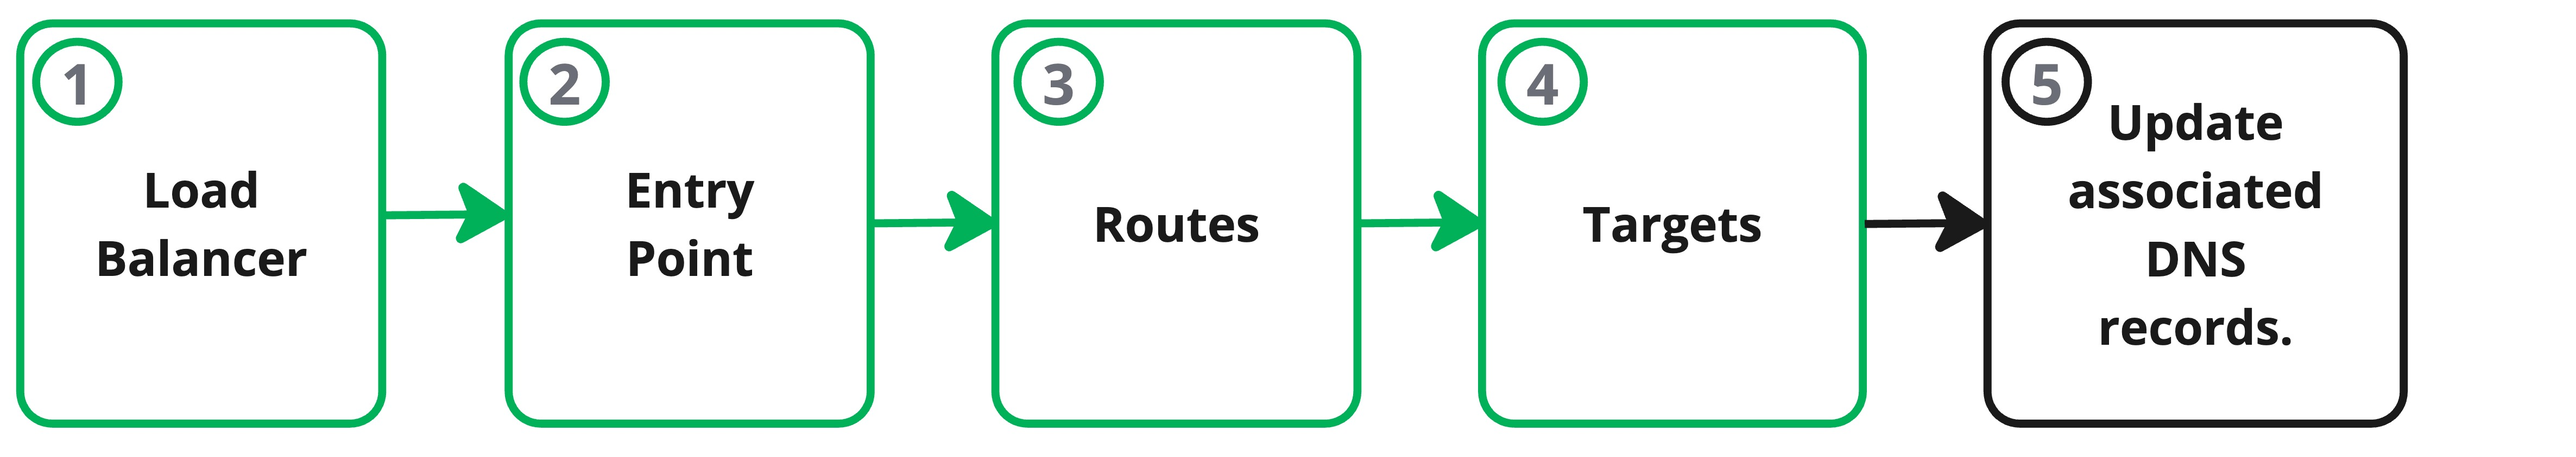
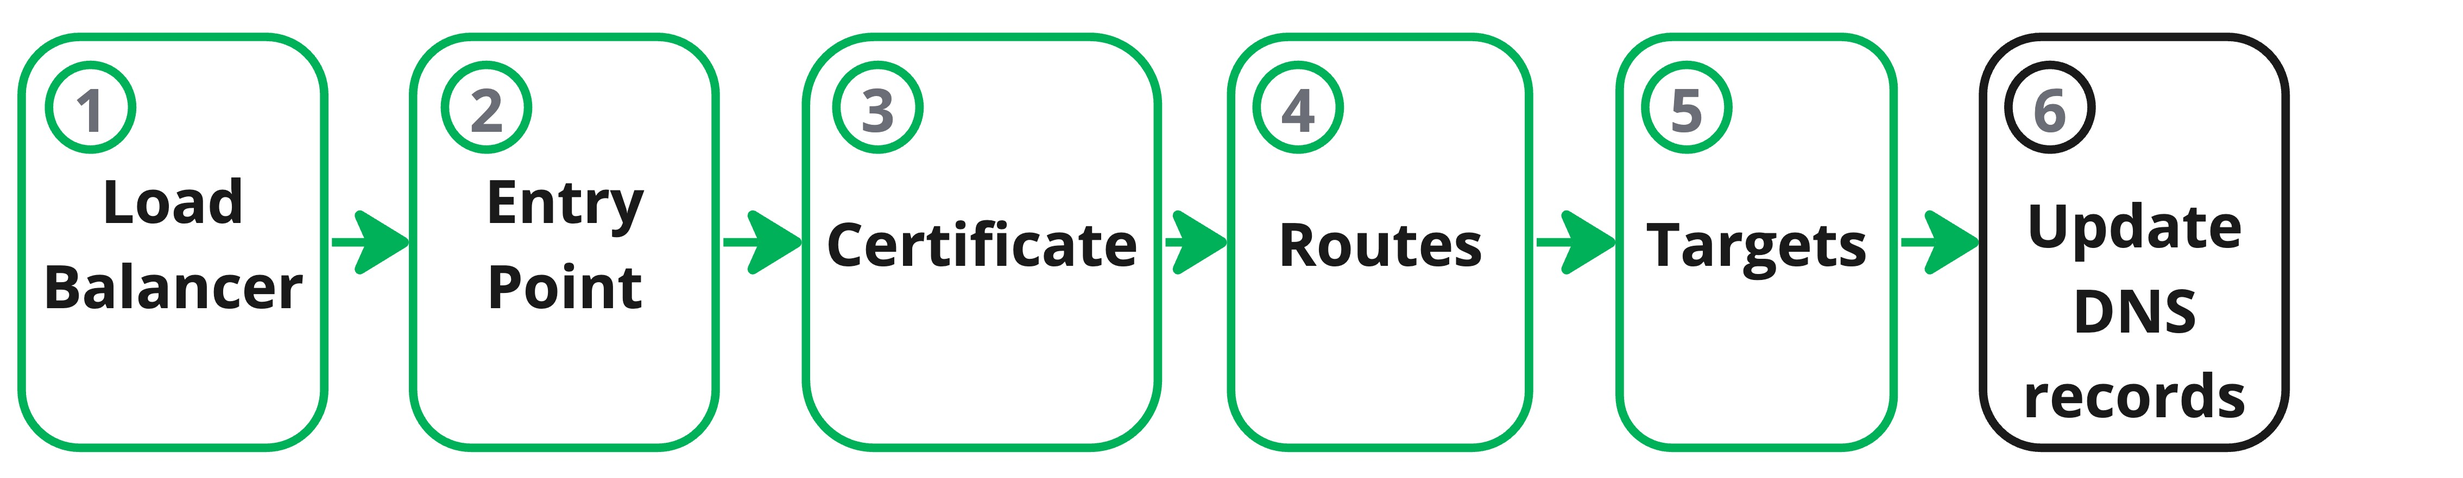
Draft drop - July 10

Changed region(s): [[0.0, 0.0308, 0.9325, 0.9561]]

diff --git a/docs/products/networking/global-loadbalancer/get-started/index.md b/docs/products/networking/global-loadbalancer/get-started/index.md
@@ -33,31 +33,35 @@ Once your application has been deployed on multiple Compute Instances, you are r
 
 1. **Load Balancer:** Label the load balancer and select regions.
 
-1. **Entry Point:** Select the entry point protocol and port the load balancer uses to listen on.
+1. **Entry Point:** Select the entry point protocol (TCP or HTTP) and port the load balancer uses to listen on.
+
+1. **Certificates:** Upload your certificate and private key.
 
 1. **Routes:** Create routes and route rules used to select the service target.
 
-1. **Targets:** Configure the service endpoint (target) and its policy type, certificates and health checks.
+1. **Targets:** Configure the service endpoints (targets) and their policy type and health checks.
 
 {{< tabs >}}
 {{< tab "Cloud Manager" >}}
 ### Label the Load Balancer and Select Regions
 1. Log in to the [Cloud Manager](https://cloud.linode.com), select Load Balancers from the left menu, and click the **Create Global Load Balancer** button. This displays the *Load Balancers Create* form.
 
-1. Enter a **Label/Name** for this Load Balancer. The label can contain ...and must be unique.
+1. Enter a **Name** for this Load Balancer that uniquely identifies it from other load balancers. Consider using a name that indicates the load balancers purpose. The **Name** can contain between 3? and 32? alphanumeric characters.
+
+1. Optionally, create tags to help organize and group your load balancers.
 
 1. Select the **Regions** where this load balancer processes requests. If your client traffic and targets are limited to a particular geography, select that region. You can also select multiple regions or `All` for global coverage. The number of regions selected, is one of the factors that determines the [Pricing](/docs/products/networking/global-loadbalancer/#pricing) for this load balancer.
 
 ### Select the Entry Point Protocol and Port
-The Load Balancer Entry Point defines the  
+An Entry Point defines the port the load balancer listens on and the protocol for routing incoming traffic to the service targets. Once the port is selected, the name for the Entry Point is created.
 
 1. Within the **Entry Point Configuration** area, select the protocol and enter the port number used to listen to incoming requests.
 
     - **Protocol:** The protocol can be set to either TCP, HTTP, or HTTPS. The *TCP* protocol supports HTTP/1.1 and HTTP/2, and maintains encrypted connections to the backend Compute Instances. If you intend to manage and terminate the TLS certificate on the Global Load Balancer, use *HTTP* for port 80 and *HTTPS* for port 443.
 
-        - **TCP**: Supports most application-layer protocols, including HTTP and HTTPS. This should be selected when you want to enable layer 4 load balancing, use TLS/SSL pass-through, use HTTP/2.0 or higher, balance non-HTTP services, or make use of [Proxy Protocol](#proxy-protocol). Since the Global Load Balancer serves as a pass-through for these TCP packets, any encrypted traffic is preserved and must be decrypted on the backend nodes.
+        - **TCP**: Supports most application-layer protocols, including HTTP and HTTPS. TCP should be selected when you want to enable layer 4 load balancing, use TLS/SSL pass-through, use HTTP/2.0 or higher, balance non-HTTP services, or make use of [Proxy Protocol](#proxy-protocol). Since the Global Load Balancer serves as a pass-through for these TCP packets, any encrypted traffic is preserved and must be decrypted on the backend nodes.
 
-        - **HTTP:** Unencrypted web traffic using HTTP/1.1 or HTTP/2. This terminates the HTTP request on the Global Load Balancer, allowing the Load Balancer to create a new HTTP request to the backend machines. This can be used when serving most standard web applications, especially if you intend on configuring the Global Load Balancer to use HTTPS mode with TLS/SSL termination.
+        - **HTTP:** Unencrypted web traffic using HTTP/1.1 or HTTP/2. When HTTP is selected, the HTTP request is terminated on the Global Load Balancer, allowing the Load Balancer to create a new HTTP request to the backend machines. This can be used when serving most standard web applications, especially if you intend on configuring the Global Load Balancer to use HTTPS mode with TLS/SSL termination.
 
         - **HTTPS:** Encrypted web traffic using HTTP/1.1 or HTTP/2. Since this terminates the request on the Global Load Balancer, it also terminates the TLS/SSL connection to decrypt the traffic. Use this if you wish to configure TLS/SSL certificates on the Global Load Balancer and not on individual backend nodes.
         
@@ -66,20 +70,44 @@ The Load Balancer Entry Point defines the
     - **Port:** This is the *inbound* port that the Global Load Balancer is listening on. This can be any port from 1 through 65534, though it should be set to whichever port the client software connects to. For instance, web browsers use port 80 for HTTP traffic and port 443 for HTTPS traffic, though a client can change the port by specifying it as part of the URL.
 
 
-1. Click **Authorization**, to install an SSL certificate on your Global Load Balancer to redirect all web connections over port 443/HTTPS using SSL.
+1. When the HTTPS protocol is selected, click **Authorization**, you need to install an SSL certificate on your Global Load Balancer to redirect all web connections over port 443/HTTPS using SSL.
 
     - **SSL Certificate:** Paste the PEM-formatted contents of your SSL certificate. If you have linked multiple segments of a chained certificate, be sure to copy all of its contents into the text field, appearing one after another. The certificate must be signed using the RSA algorithm, which is the default in most cases.
 
     - **Private Key:** Paste the PEM-formatted contents of your private key. Your private key must not have a passphrase.
 
-1. Add the **Entry Point Label**.
-
 ###  Configure Routes
-Each Entry Point includes a list of **Routes**. Routes are the set of rules that the load balancer uses to select the target for the incoming request.
+ **Routes** provide the set of traffic routing rules that the load balancer uses to select the target for the incoming request.
 
-  - **Algorithm:** Controls how new connections are allocated across backend targets. The *Performance* method selects the backend target by evaluating routes using real-time load feedback and the shortest geographic route. The *Weighted* method routes requests to backend targets according to the proportion (%) configured. See [Configuration Options > Algorithm](/docs/products/networking/global-loadbalancer-drafts/guides/configure/#algorithm).
+1. Enter a **Route Name** for this route that uniquely identifies it from other Routes. The **Route Name** can contain between 3? and 32? alphanumeric characters.
 
-    - **Session Stickiness:** This controls how subsequent requests from the same client are routed when selecting a backend target. For testing, consider keeping Session Stickiness off. See [Configuration Options > Session Stickiness](/docs/products/networking/nodebalancers/guides/configure/#session-stickiness).
+1. Add an optional **Default target** to use if no rule matches. Without a default target, non-matching requests are rejected.
+
+###  Select the Load Balancing Algorithm and Add Match Rules for Each Route
+The load balancing **Algorithm** controls how new connections are allocated across backend targets. Performance and Weighted methods are supported.
+- **Performance:** selects the backend target by evaluating routes using real-time load feedback and the shortest geographic route. 
+- **Weighted:** routes requests to backend targets according to the proportion (%) configured.
+
+A match rule consists of a **Match Type**, and a pattern to match. If an optional hostname is specified, the rule applies only to traffic that is directed to that target. If a hostname is not specified, the rule applies to all targets. Rules are evaluated in order, with the first match winning. Each rule can specify only one field/pattern pair (AND/OR logic is not supported). A match rule can also specify a session-affinity cookie to be applied whenever the match applies.
+
+| Match Type     | Description |Examples       |Operators|Wildcards|Case Sensitivity|
+|----------------|-------------|--------------|---------|---------|----------------|
+|**Path Prefix**  | A URL path prefix. The format of the path entry is as follows: /pathprefix1/pathprefix2. The initial slash is required, the trailing slash is not.| /images |is one of |?|?|
+|**Query**        | Exact match based on both the name of the query and the single URL query value to match on. If there is no value, the match is to any request that contains the parameter.|?svc=images| ? | ? | ?|
+|**Header**       | Exact match based on both the name of a request header and its value. If no value is entered, any request containing the header name produces a match.|X-route-header=images|is |?|?|
+|**Method**       |Match based the type of request method.|GET, DELETE, POST, PUT |is|?|?|
+
+1. Enter a **Rule Label**.
+
+1. If this rule applies to a specific target, enter the hostname of the target or select the target. If a hostname or target is not specified, the rule applies to all targets. Wildcards (*) are supported.
+
+1. Select the load balancing **Algorithm**. If Weighted is selected, enter the percentage of traffic that should be routed to the target. All of the percentages must equal 100%. 
+
+1. Select a **Match Type**.
+
+1. Select an operator and enter the Match Value.
+
+   - **Session Stickiness:** This controls how subsequent requests from the same client are routed when selecting a backend target. For testing, consider keeping Session Stickiness off. See [Configuration Options > Session Stickiness](/docs/products/networking/nodebalancers/guides/configure/#session-stickiness).
 
     - **Health Checks:** Load Balancers have both *active* and *passive* health checks available. These health checks help take unresponsive or problematic backend Compute Instances out of the rotation so that no connections are routed to them. These settings can be left at the default for most applications. Review [Configuration Options > Health Checks](/docs/products/networking/global-loadbalancer/guides/configure/#health-checks) for additional information.
 

diff --git a/docs/products/networking/global-loadbalancer/_index.md b/docs/products/networking/global-loadbalancer/_index.md
@@ -89,6 +89,7 @@ You can select to route your clients traffic to one of your backends using one o
 Traffic is only routed to healthy backends. Passive health checks happen on every request. You can configure active health checks based on your application or service. If the target becomes unfit, the load balancer moves traffic away from the unhealthy target. When a new target is added, Akamai Global Load Balancer tests the fitness of the target to verify the target is active, and ready to support large traffic spikes.
 
 ## Certificate Management
+Global Load Balancer uses a bring-you-own certificate model. Your certificate and it's private key are directly uploaded to a vault using Cloud Manager or APIv4.
 
 ## Observability
 Akamai Global Load Balancer provides real-time metrics, logs and traces through third party observability tools and providers.

diff --git a/docs/products/networking/global-loadbalancer/guides/_index.md b/docs/products/networking/global-loadbalancer/guides/_index.md
@@ -6,5 +6,6 @@ tab_group_main:
     weight: 30
 modified: 2023-06-26
 ---
-- [Manage Global Load Balancers](/docs/products/networking/global-loadbalancer/guides/manage/): View, edit, and manage Global Load Balancers on your account.
+- [Monitor Global Load Balancer](/docs/products/networking/global-loadbalancer/guides/monitor/)
+- [Manage Global Load Balancer](/docs/products/networking/global-loadbalancer/guides/manage/): View, edit, and manage Global Load Balancers on your account.
 - [Reviewing Billing Information]()

diff --git a/docs/products/networking/global-loadbalancer/guides/manage/index.md b/docs/products/networking/global-loadbalancer/guides/manage/index.md
@@ -1,7 +1,7 @@
 ---
 title: "Manage Global Balancer"
 description: "Learn how to view, edit, and delete Global Load Balancer."
-published: 2022-10-07
+published: 2023-07-06
 authors: ["Akamai"]
 ---
 

diff --git a/docs/products/networking/global-loadbalancer/guides/monitor/index.md b/docs/products/networking/global-loadbalancer/guides/monitor/index.md
@@ -1,0 +1,8 @@
+---
+title: "Monitor Global Balancer"
+description: "Learn how to monitor Global Load Balancer."
+published: 2023-07-05
+authors: ["Akamai"]
+---
+
+## Monitor Global Load Balancer
